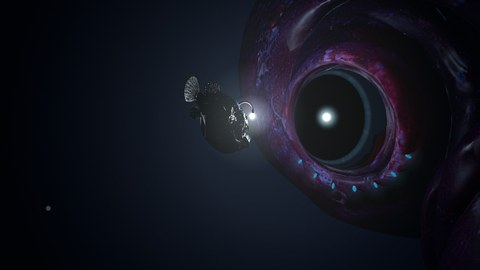
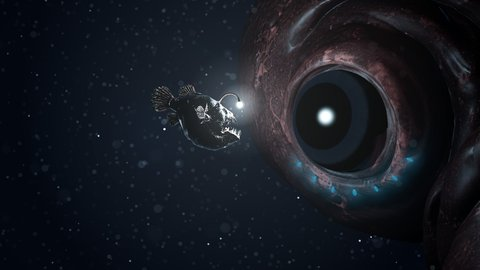
abyss-eye: push toward the target (Fable review 2)
Marine snow with near bokeh, a darker eye with a visible iris and no grey
crescent, desaturated ochre skin with a 0.4 roughness floor, photophores that
are embers in the dark and bleed cyan into the flesh, a steeper lure falloff,
darker water with a blue wash behind the fish, a farther approach with no rim
for the first 12 s, and a non-metallic anglerfish. About 5-6 ms per frame.

diff --git a/themes/abyss-eye/index.html b/themes/abyss-eye/index.html
@@ -64,10 +64,10 @@ const CONFIG = {
   eyeDist: 1.15,                                  // camera → eye, metres (eye ≈ 37 % of the screen height)
   yaw: -0.6, pitch: 0.1, roll: 0.1,              // the head turned so the eye looks at the camera, the skull off right
   eyeFwd: [0.105, -0.017, 0.994],                 // the socket's axis in the eyeball's own space (from the Blender fit)
-  away: new THREE.Vector3(0.35, -0.1, -1.6),      // how far it drifts back out (added to the stage point)
+  away: new THREE.Vector3(0.35, -0.1, -2.6),      // how far it drifts back out (added to the stage point)
   armAmp: 1,                                      // multiplier on the arm curl (0 = rest pose)
   fishOrbit: new THREE.Vector3(-0.34, -0.03, 0.2),// centre of the fish's small loop, relative to the eye
-  fishScale: 0.9, exposure: 0.7, fog: 0.4, bg: 0x040a16,
+  fishScale: 0.9, exposure: 0.7, fog: 0.4, bg: 0x02060e,
   timeOverride: QS.has('t') ? +QS.get('t') : null,   // seconds into the cycle (?t=55), for screenshots / demo.html
 };
 const DEBOUNCE_MS = 300, POLL_MS = 1000;
@@ -148,9 +148,10 @@ scene.add(ambient);
 const rim = new THREE.DirectionalLight(0x4f86c6, 0.35);
 rim.position.set(1.5, 1.2, -2.5);
 scene.add(rim);
-// The lure light falls off slower than physics (decay 1.3) and a cold fill rides along with an even flatter falloff:
+// The lure light falls off a bit slower than physics (decay 1.7) and a cold fill rides along with a much flatter falloff:
 // in the concept art the lure washes the whole face in blue-white, which is wrong optically but right for the mood.
-const lureLight = new THREE.PointLight(0xcff4ff, 0, 0, 1.3);
+// 1.7 rather than 1.3 so the far side of the skull sinks back into the dark (depth), with more intensity to compensate.
+const lureLight = new THREE.PointLight(0xcff4ff, 0, 0, 1.7);
 const lureFill = new THREE.PointLight(0x7fa6e8, 0, 0, 0.6);
 // The fish stays as visible as in the concept art whatever Claude is doing: a small lamp of its own, constant, that
 // dies out within 0.3 m so it never reaches the squid (only the squid's reveal follows the state).
@@ -169,55 +170,64 @@ const photoGlow = Array.from({ length: 14 }, () => {
     blending: THREE.AdditiveBlending, fog: false, opacity: 0 }));
   sp.scale.setScalar(0.07); scene.add(sp); return sp;
 });
+// the water around the fish is faintly lit: a huge, very faint blue sprite behind it washes the left half of the frame
+const wash = new THREE.Sprite(new THREE.SpriteMaterial({ map: glowTex, color: 0x3d78c8, transparent: true, depthWrite: false,
+  blending: THREE.AdditiveBlending, fog: false, opacity: 0.05 }));
+wash.scale.setScalar(1.5); scene.add(wash);
 const halo = [0.06, 0.6].map(size => {
   const sp = new THREE.Sprite(new THREE.SpriteMaterial({ map: glowTex, color: 0xcff4ff, transparent: true, depthWrite: false,
     depthTest: size < 0.1, blending: THREE.AdditiveBlending, fog: false }));
   sp.userData.size = size; scene.add(sp); return sp;
 });
 
-/* ------------------------------ marine snow ------------------------------ */
-const SNOW_N = 2600, SNOW_BOX = [9, 6, 10];
-const snowGeo = new THREE.BufferGeometry();
-{
-  const p = new Float32Array(SNOW_N * 3), s = new Float32Array(SNOW_N);
-  for (let i = 0; i < SNOW_N; i++) {
-    p[i * 3] = (Math.random() - 0.5) * SNOW_BOX[0]; p[i * 3 + 1] = (Math.random() - 0.5) * SNOW_BOX[1];
-    p[i * 3 + 2] = -0.6 - Math.random() * SNOW_BOX[2]; s[i] = Math.random();
+/* ------------------------------ marine snow ------------------------------
+ * Two clouds, one shader: the far field (2,600 flakes through 10 m of water) and ~400 near flakes floating between
+ * the camera and the eye (z −0.3 … −1.5). The near ones are well out of focus, so they read as big soft bokeh discs. */
+function makeSnow(n, box, z0, big, gain) {
+  const geo = new THREE.BufferGeometry();
+  const p = new Float32Array(n * 3), s = new Float32Array(n);
+  for (let i = 0; i < n; i++) {
+    p[i * 3] = (Math.random() - 0.5) * box[0]; p[i * 3 + 1] = (Math.random() - 0.5) * box[1];
+    p[i * 3 + 2] = z0 - Math.random() * box[2]; s[i] = Math.random();
   }
-  snowGeo.setAttribute('position', new THREE.BufferAttribute(p, 3));
-  snowGeo.setAttribute('seed', new THREE.BufferAttribute(s, 1));
+  geo.setAttribute('position', new THREE.BufferAttribute(p, 3));
+  geo.setAttribute('seed', new THREE.BufferAttribute(s, 1));
+  const mat = new THREE.ShaderMaterial({
+    transparent: true, depthWrite: false, blending: THREE.AdditiveBlending,
+    uniforms: { uTime: { value: 0 }, uLure: { value: new THREE.Vector3() }, uLight: { value: 0 }, uBase: { value: 0.5 },
+                uPx: { value: 1 }, uFocus: { value: CONFIG.eyeDist }, uBox: { value: new THREE.Vector3(...box) }, uBig: { value: big }, uGain: { value: gain } },
+    vertexShader: /* glsl */`
+      attribute float seed; uniform float uTime, uPx, uFocus, uBig; uniform vec3 uBox, uLure; varying float vA, vLit, vSoft;
+      void main() {
+        vec3 p = position;
+        p.y = mod(p.y - uTime * (0.015 + 0.02 * seed) + uBox.y * 0.5, uBox.y) - uBox.y * 0.5;      // slow fall, wraps
+        p.x += sin(uTime * 0.11 + seed * 40.0) * 0.15 * min(1.0, uBox.x / 4.0);                    // a little drift
+        vec4 mv = modelViewMatrix * vec4(p, 1.0);
+        gl_Position = projectionMatrix * mv;
+        float d = length(p - uLure);
+        vLit = 1.0 / (1.0 + d * d * 6.0);
+        vA = 0.35 + 0.65 * seed;
+        float dz = -mv.z - uFocus, blur = dz > 0.0 ? dz * 0.12 : -dz;      // out of focus → a bigger, fainter disc (far side kept crisper: mood over optics)
+        gl_PointSize = min(96.0, uPx * uBig * ((1.2 + 2.2 * seed) * 3.0 / max(0.3, -mv.z) + blur * 9.0));
+        vA /= 1.0 + blur * blur * 1.5;
+        vSoft = clamp(-dz * 1.5 - 0.3, 0.0, 1.0);                          // bokeh in front of the eye: soft-edged, flatter
+      }`,
+    fragmentShader: /* glsl */`
+      uniform float uLight, uBase, uGain; varying float vA, vLit, vSoft;
+      void main() {
+        vec2 c = gl_PointCoord - 0.5; float r = dot(c, c);
+        if (r > 0.25) discard;
+        float shape = mix(smoothstep(0.25, 0.12, r), smoothstep(0.25, 0.02, r) * 0.6, vSoft);
+        float a = shape * vA * uGain * (0.4 * uBase + min(0.6, vLit * uLight * 0.9));
+        gl_FragColor = vec4(vec3(0.75, 0.9, 1.0) * a, a);
+      }`,
+  });
+  const pts = new THREE.Points(geo, mat);
+  pts.frustumCulled = false;
+  scene.add(pts);
+  return mat;
 }
-const snowMat = new THREE.ShaderMaterial({
-  transparent: true, depthWrite: false, blending: THREE.AdditiveBlending,
-  uniforms: { uTime: { value: 0 }, uLure: { value: new THREE.Vector3() }, uLight: { value: 0 }, uBase: { value: 0.5 },
-              uPx: { value: 1 }, uFocus: { value: CONFIG.eyeDist }, uBox: { value: new THREE.Vector3(...SNOW_BOX) } },
-  vertexShader: /* glsl */`
-    attribute float seed; uniform float uTime, uPx, uFocus; uniform vec3 uBox, uLure; varying float vA; varying float vLit;
-    void main() {
-      vec3 p = position;
-      p.y = mod(p.y - uTime * (0.015 + 0.02 * seed) + uBox.y * 0.5, uBox.y) - uBox.y * 0.5;      // slow fall, wraps
-      p.x += sin(uTime * 0.11 + seed * 40.0) * 0.15;                                              // a little drift
-      vec4 mv = modelViewMatrix * vec4(p, 1.0);
-      gl_Position = projectionMatrix * mv;
-      float d = length(p - uLure);
-      vLit = 1.0 / (1.0 + d * d * 6.0);
-      vA = 0.35 + 0.65 * seed;
-      float blur = abs(-mv.z - uFocus);                                   // out of focus → a bigger, fainter disc
-      gl_PointSize = uPx * ((1.2 + 2.2 * seed) * 3.0 / max(0.4, -mv.z) + blur * 9.0);
-      vA /= 1.0 + blur * blur * 10.0;
-    }`,
-  fragmentShader: /* glsl */`
-    uniform float uLight, uBase; varying float vA; varying float vLit;
-    void main() {
-      vec2 c = gl_PointCoord - 0.5; float r = dot(c, c);
-      if (r > 0.25) discard;
-      float a = smoothstep(0.25, 0.12, r) * vA * (0.13 * uBase + vLit * uLight * 0.9);
-      gl_FragColor = vec4(vec3(0.75, 0.9, 1.0) * a, a);
-    }`,
-});
-const snow = new THREE.Points(snowGeo, snowMat);
-snow.frustumCulled = false;
-scene.add(snow);
+const snowMats = [makeSnow(2600, [9, 6, 10], -0.6, 1.0, 1.5), makeSnow(400, [1.5, 0.85, 1.2], -0.3, 1.6, 0.35)];
 
 /* ------------------------------ the eye ------------------------------
  * The eyeball is a plain sphere; all the depth is faked in its fragment shader (no extra render pass):
@@ -244,6 +254,7 @@ function eyeMaterial() {
         vec3 toL = uLure - vP; float dL = length(toL); vec3 l = toL / dL;
         float dW = dL * uWS; float lit = uLight / (dW * dW);          // the lure's irradiance here (inverse square, metres)
         // inside: refract, hit the iris plane (sunk 0.35 R below the cornea's apex)
+        float axial = smoothstep(0.25, 0.6, dot(n, uFwd));
         vec3 rr = refract(rd, n, 1.0 / 1.38);
         float depth = 0.62 * uR;
         float s = (depth - dot(vP, uFwd)) / min(dot(rr, uFwd), -1e-3);
@@ -251,15 +262,20 @@ function eyeMaterial() {
         vec3 qp = q - uFwd * dot(q, uFwd);                            // position on the iris plane
         float rho = length(qp) / uR, ang = atan(qp.y, qp.x + 1e-5);
         float striae = 0.55 + 0.45 * noise1(ang * 28.0 + rho * 6.0) * noise1(ang * 9.0 - rho * 3.0);
-        vec3 iris = mix(vec3(0.10, 0.16, 0.22), vec3(0.42, 0.50, 0.55), smoothstep(uPupil, 0.95, rho)) * striae;
+        vec3 iris = mix(vec3(0.008, 0.009, 0.011), vec3(0.03, 0.026, 0.024), smoothstep(uPupil, 0.95, rho)) * striae;   // dark, warm grey
         iris *= smoothstep(0.98, 0.85, rho);                          // dark limbal ring
         float pupil = smoothstep(uPupil + 0.02, uPupil - 0.02, rho);
-        vec3 inside = mix(iris, vec3(0.0), pupil) * (0.012 + lit * 0.035) * uLureCol;
-        inside += vec3(0.010, 0.016, 0.026) * (1.0 - pupil);         // a hint of the iris even unlit
+        vec3 inside = mix(iris, vec3(0.0), pupil) * (0.036 + lit * 0.105) * uLureCol;   // iris ×3: it has to read as a ring
+        inside += vec3(0.010, 0.016, 0.026) * (1.0 - pupil) * smoothstep(1.0, 0.85, rho);   // a hint of the iris even unlit
+        inside *= axial;                                              // nothing of the iris outside the socket
         // the cornea: fresnel reflection of the dark water, plus the lure as a sharp highlight
         vec3 v = -rd, h = normalize(l + v);
         float fres = 0.04 + 0.96 * pow(1.0 - max(dot(n, v), 0.0), 5.0);
-        float spec = pow(max(dot(n, h), 0.0), 900.0) * 6.0 + pow(max(dot(n, h), 0.0), 80.0) * 0.08;
+        // the ball pokes out of the socket on the far side; its grazing fresnel drew a grey crescent there, so the
+        // reflection fades out away from the socket's axis
+        fres *= axial;
+        // a sharp catchlight plus a broad soft sheen across the wet cornea
+        float spec = pow(max(dot(n, h), 0.0), 900.0) * 6.0 + pow(max(dot(n, h), 0.0), 160.0) * 0.5 * axial;
         vec3 col = inside * (1.0 - fres) + vec3(0.012, 0.022, 0.04) * fres + uLureCol * spec * (0.2 + lit * 0.8);
         gl_FragColor = vec4(col, 1.0);
         #include <tonemapping_fragment>
@@ -274,7 +290,8 @@ function eyeMaterial() {
  * distance from the eye centre in the camera plane — the camera never rotates, so world xy = view xy), and a red
  * glow of light passing under the skin near the lure (fake subsurface). Front faces only (Tripo exports double-sided).
  * All of it is lit only by the lure, so it comes out of the dark as the lure brightens. */
-const skinU = { uEye: { value: new THREE.Vector3() }, uEyeR: { value: 0.115 }, uLure: { value: new THREE.Vector3() }, uL: { value: 0 } };
+const skinU = { uEye: { value: new THREE.Vector3() }, uEyeR: { value: 0.115 }, uLure: { value: new THREE.Vector3() }, uL: { value: 0 },
+                uPh: { value: Array.from({ length: 7 }, () => new THREE.Vector3(0, 0, 99)) }, uPhK: { value: 0 } };
 const NOISE_GLSL = /* glsl */`
   float h3(vec3 p) { return fract(sin(dot(p, vec3(127.1, 311.7, 74.7))) * 43758.5453); }
   float n3(vec3 p) { vec3 i = floor(p), f = fract(p); f = f * f * (3.0 - 2.0 * f);
@@ -291,16 +308,18 @@ function skinMaterial(mat) {
       .replace('#include <skinning_vertex>', '#include <skinning_vertex>\nvWPos = (modelMatrix * vec4(transformed, 1.0)).xyz;');
     sh.fragmentShader = sh.fragmentShader
       .replace('#include <common>', `#include <common>
-        varying vec3 vWPos; uniform vec3 uEye, uLure; uniform float uEyeR, uL;
+        varying vec3 vWPos; uniform vec3 uEye, uLure, uPh[7]; uniform float uEyeR, uL, uPhK;
         ${NOISE_GLSL}
 `)
       .replace('#include <map_fragment>', `#include <map_fragment>
         // the Tripo head carries its own sculpted folds and scars; only a cheap tint, mottling and fold sheen are added
         vec2 rel = (vWPos.xy - uEye.xy) / uEyeR; float dEye = length(rel);
         float mott = n3(vWPos * 9.0);
-        diffuseColor.rgb *= vec3(1.0, 0.78, 0.82) * (0.8 + 0.4 * mott);                       // nudge the purple toward oxblood`)
+        float lum = dot(diffuseColor.rgb, vec3(0.299, 0.587, 0.114));
+        // Tripo's texture is magenta: drop its hue, re-tint to dark ochre-red, let the pale blotches stay greyish-pale
+        diffuseColor.rgb = mix(lum * vec3(0.55, 0.22, 0.2) * 3.2, vec3(lum * 0.8), smoothstep(0.4, 0.7, lum) * 0.6) * (0.8 + 0.4 * mott);`)
       .replace('#include <roughnessmap_fragment>', `#include <roughnessmap_fragment>
-        roughnessFactor = clamp(roughnessFactor * (0.6 + 0.8 * mott), 0.12, 1.0);`)
+        roughnessFactor = clamp(roughnessFactor * (0.6 + 0.8 * mott), 0.4, 1.0);   // ≥ 0.4: no blue plastic sheen on the skull`)
       .replace('#include <normal_fragment_maps>', `#include <normal_fragment_maps>
         {
           float k = 7.0, band = smoothstep(1.02, 1.25, dEye) * smoothstep(3.6, 1.7, dEye);
@@ -309,7 +328,11 @@ function skinMaterial(mat) {
           normal = normalize(normal + vec3(dir * slope, 0.0));
         }`)
       .replace('#include <emissivemap_fragment>', `#include <emissivemap_fragment>
-        { float d = length(vWPos - uLure); totalEmissiveRadiance += diffuseColor.rgb * vec3(1.0, 0.25, 0.2) * uL / (d * d) * 0.05; }`);
+        { float d = length(vWPos - uLure); totalEmissiveRadiance += diffuseColor.rgb * vec3(1.0, 0.25, 0.2) * uL / (d * d) * 0.05; }
+        // the photophores glow from inside the flesh: a cyan Σ1/d² bleed around each, so they grow out of the skin
+        { float g = 0.0;
+          for (int i = 0; i < 7; i++) { vec3 e = vWPos - uPh[i]; g += 1.0 / (1.0 + dot(e, e) * 2500.0); }
+          totalEmissiveRadiance += vec3(0.03, 0.32, 0.45) * g * uPhK; }`);
   };
   mat.needsUpdate = true;
 }
@@ -322,7 +345,7 @@ function initEyes(m) {
     node.material.uniforms.uFwd.value.copy(fwd);
     node.material.uniforms.uR.value = node.geometry.boundingSphere.radius;
     node.material.uniforms.uWS.value = node.getWorldScale(new THREE.Vector3()).x;
-    eyes.push({ node, mat: node.material, fwd, rest: node.quaternion.clone(), sacc: new THREE.Quaternion(), saccTo: new THREE.Quaternion(), nextSacc: 2, pupil: 0.78 });
+    eyes.push({ node, mat: node.material, fwd, rest: node.quaternion.clone(), sacc: new THREE.Quaternion(), saccTo: new THREE.Quaternion(), nextSacc: 2, pupil: 0.6 });
   }
 }
 const GAZE = { maxDeg: 25, lag: 0.35, saccEvery: [2, 5], saccDeg: 1.6, saccTime: 0.08, driftDeg: 0.3 };
@@ -352,7 +375,7 @@ function lookAtLure(dt, t, L) {
     target.multiply(e.sacc).multiply(drift);
     e.node.quaternion.slerp(target, 1 - Math.exp(-dt / (GAZE.lag / (1 + L * 2))));   // brighter → keener
     // pupil follows the light, slowly
-    e.pupil += (THREE.MathUtils.lerp(0.88, 0.8, THREE.MathUtils.smoothstep(L, 0, 0.4)) - e.pupil) * (1 - Math.exp(-dt / 1.5));
+    e.pupil += (THREE.MathUtils.lerp(0.65, 0.55, THREE.MathUtils.smoothstep(L, 0, 0.4)) - e.pupil) * (1 - Math.exp(-dt / 1.5));
     const u = e.mat.uniforms;
     u.uPupil.value = e.pupil; u.uLight.value = L;
     e.node.updateMatrixWorld();
@@ -419,7 +442,11 @@ loader.load('assets/anglerfish.glb', g => {
   fish.esca = fish.parts.esca;
   fish.escaMat = fish.esca.material;
   fish.esca.add(lureLight, lureFill, fishLamp);
-  m.traverse(o => { if (o.isMesh && o.material.isMeshStandardMaterial && o !== fish.esca) fishRim(o.material); });
+  m.traverse(o => {
+    if (!o.isMesh || !o.material.isMeshStandardMaterial || o === fish.esca) return;
+    o.material.metalness = 0; o.material.roughness = Math.max(o.material.roughness, 0.7);   // it read as metal
+    fishRim(o.material);
+  });
   keep(fish.parts.illicium);
   fish.ready = true;
 }, undefined, e => console.warn('anglerfish not loaded:', e));
@@ -469,10 +496,14 @@ function animate(dt) {
     if (squid.head) wiggle(squid.head, 0, Math.sin(t * 2 * Math.PI / 40) * 0.02 * appear, 0);
     // photophores wake up as it arrives; a slow shimmer, brighter when the lure is brighter
     const ph = (0.05 + 0.95 * ss(14, 30, T) * (1 - ss(74, 86, T))) * (0.75 + 0.25 * Math.sin(t * 1.7));
-    if (squid.photo) squid.photo.emissiveIntensity = ph * 1.4;
+    // ...but in the dark they are only embers: they must not outshine the lure (Fable: "jewels floating on the skin")
+    const ember = 0.15 + 0.85 * Math.min(1, L / 0.2);
+    if (squid.photo) squid.photo.emissiveIntensity = ph * 1.4 * ember;
+    skinU.uPhK.value = ph * ember * 0.35;
     squid.photoNodes?.forEach((o, i) => {                              // each photophore gets a small soft glow
       const sp = photoGlow[i]; o.getWorldPosition(sp.position);
-      sp.material.opacity = ph * (0.55 + 0.15 * Math.sin(t * 2.3 + i));
+      if (i < 7) skinU.uPh.value[i].copy(sp.position);
+      sp.material.opacity = ph * ember * (0.55 + 0.15 * Math.sin(t * 2.3 + i));
     });
     squid.root.updateMatrixWorld(true);
     squid.eyeNode.getWorldPosition(squid.eye);
@@ -496,11 +527,14 @@ function animate(dt) {
     if (p.illicium) wiggle(p.illicium, Math.sin(t * 1.3) * 0.08, Math.sin(t * 0.9) * 0.05, 0);
     if (fish.jaw) wiggle(fish.jaw, (0.5 + 0.5 * Math.sin(t * 0.45)) * 0.22, 0, 0);
     // the lure: glow + the scene's only light
-    lureLight.intensity = L * 1.3;
+    lureLight.intensity = L * 1.6;
     lureFill.intensity = L * 0.9;
     fish.escaMat.emissiveIntensity = 2.0 + 1.5 * Math.min(1, L / 0.25) + 0.15 * Math.sin(t * 2.9);   // never dim: it is the fish's own light
     fish.esca.getWorldPosition(lurePos);
+    wash.position.copy(c).add(tmp.set(-0.15, 0, -0.4));
   }
+  // the cold rim only comes up once it starts to approach: the first 12 s are truly dark
+  rim.intensity = 0.35 * ss(12, 24, T) * (1 - ss(80, 89, T));
   if (squid.ready && fish.ready) lookAtLure(dt, t, L);
   skinU.uEye.value.copy(squid.eye); skinU.uLure.value.copy(lurePos); skinU.uL.value = L;
   const hk = Math.min(1, L / 0.4);
@@ -509,10 +543,12 @@ function animate(dt) {
     sp.scale.setScalar(sp.userData.size * (0.55 + 0.8 * hk));
     sp.material.opacity = sp.userData.size < 0.1 ? 0.75 + 0.25 * hk : 0.14 + 0.24 * hk;
   }
-  snowMat.uniforms.uTime.value = t;
-  snowMat.uniforms.uLure.value.copy(lurePos);
-  snowMat.uniforms.uLight.value = L * 8;           // snow brightness was tuned for the old 0–3.2 range
-  snowMat.uniforms.uBase.value = current.snow;
+  for (const m of snowMats) {
+    m.uniforms.uTime.value = t;
+    m.uniforms.uLure.value.copy(lurePos);
+    m.uniforms.uLight.value = L * 8;               // snow brightness was tuned for the old 0–3.2 range
+    m.uniforms.uBase.value = current.snow;
+  }
   return { T, appear };
 }
 
@@ -527,7 +563,7 @@ function resize() {
   renderer.setSize(innerWidth, innerHeight, false);
   camera.aspect = innerWidth / innerHeight; camera.updateProjectionMatrix();
   place();                                        // the stage point depends on the aspect ratio
-  snowMat.uniforms.uPx.value = innerHeight * dpr * s / 600;
+  for (const m of snowMats) m.uniforms.uPx.value = innerHeight * dpr * s / 600;
 }
 addEventListener('resize', resize);
 function render(dt) {

diff --git a/themes/abyss-eye/README.md b/themes/abyss-eye/README.md
@@ -6,13 +6,14 @@
 - 2026-10-25 第一版（全身側拍）。
 - 同日依 Fable 審稿重做成「遭遇」構圖：只拍眼睛與眼周，巨物看不到邊才顯得大。
 - 同日再把整隻魷魚換成專用頭模 `abyss_head.glb`：從目標圖裁出眼區丟 Tripo（H3.1 → 重拓撲 2 萬三角 → 去光貼圖），眼窩肉環與疤痕是真的雕在模型和貼圖裡；Blender 腳本加上給 shader 用的眼球和 7 顆發光器（`E:	mp\colossal-squid\socketuild_head.py`）。
+- 同日照 Fable 覆評（62/100）再推近目標圖：海雪與散景、眼睛（瞳孔變小、虹膜與角膜反光、去掉灰月牙）、皮膚改暗赭、發光器沉進肉裡、深度梯度與左側霧洗、開場逼近更遠。
 - 設計稿與規格在 `docs/素材庫/colossal-squid/DESIGN.md`、`SPECS.md`（素材庫不進 git，在作者本機）；目標圖在 `E:\tmp\colossal-squid\angler\target.png`。
 
 ## 狀態對照（只改餌燈亮度與海雪）
 
 | 狀態 | 餌燈（燭光） | 畫面 |
 |---|---|---|
-| 沒有對話（`sessions` 全空） | 0.006 | 幾乎全黑：剪影、外套膜一道藍輪廓、眼球一點反光、眼下發光器 |
+| 沒有對話（`sessions` 全空） | 0.006 | 幾乎全黑：剪影、外套膜一道藍輪廓、眼球一點反光、眼下發光器只剩餘燼 |
 | `clear` / `clearing` | 0.07 | 眼周皮膚微亮、虹膜環隱約可見 |
 | `overcast` | 0.16 | 皺褶與斑駁浮現 |
 | `storm` | 0.20 | 同上，再亮一點 |
@@ -26,15 +27,16 @@
 
 | 秒 | 內容 |
 |---|---|
-| 0–12 | 黑暗，牠在遠處（`CONFIG.away`） |
+| 0–12 | 黑暗，牠在遠處（`CONFIG.away`，比定位點遠 2.6 m），連輪廓光都沒有 |
 | 12–48 | 很慢地逼近到定位 |
+| 12–24 | 輪廓光慢慢出現（80–89 秒再收掉） |
 | 14–30 | 眼下發光器亮起 |
 | 48–74 | 停住：外套膜每 12 秒呼吸一次（縮放 2%），頭 40 秒才轉一點，腕幾乎不動 |
 | 74–89 | 沉回黑暗 |
 
 安康魚在眼睛左前方畫一個很小的圈（46 秒一圈，`CONFIG.fishOrbit`），身體大多朝著巨眼。牠以鏡頭前的定位點為中心，**一開場就在**，等巨眼從黑暗浮現。
 
-**安康魚的可見度不跟狀態走**（照概念圖）：自己有一盞固定亮度、0.3 m 內就熄的小燈（照不到巨獸），材質加冷藍色的邊緣光，餌球和核心光暈有最低亮度。只有巨獸的浮現跟著光量。
+**安康魚的可見度不跟狀態走**（照概念圖）：自己有一盞固定亮度、0.3 m 內就熄的小燈（照不到巨獸），材質加冷藍色的邊緣光（金屬度 0、粗糙度至少 0.7，不再像金屬），餌球和核心光暈有最低亮度。只有巨獸的浮現跟著光量。
 
 ## 鏡頭與構圖（`CONFIG`）
 
@@ -51,14 +53,19 @@
   - 平滑追蹤，約慢 0.35 秒；燈越亮反應越快
   - 每 2–5 秒快速跳視一次，偏 1–2°
   - 停住時有 0.3° 的微漂移
-- **瞳孔**：隨光量縮放（0.80 → 0.64 倍眼半徑），變化有 1.5 秒延遲。
+- **瞳孔**：隨光量縮放（0.65 → 0.55 倍眼半徑），變化有 1.5 秒延遲；瞳孔小一點才看得到虹膜環。
+- **虹膜**：暗暖灰，受光量×3 倍（sRGB 會把暗部拉亮很多，所以底色要壓得很低）。
+- **角膜**：銳利高光之外再加一片寬的柔反光（0.5）。
+- **眼窩外不畫**：眼球有一部分露在眼窩外，掠射 fresnel 會畫出一圈灰月牙；反光與虹膜都依「離眼窩軸多遠」用 smoothstep 淡掉。
 
 ## 皮膚（`skinMaterial()`，注入 Tripo 的標準材質）
 
 頭模本身已有雕出的眼窩肉環與疤痕貼圖，shader 只補便宜的東西（下列疤痕與毛孔已拿掉）；材質改成單面（Tripo 導出是雙面，背面會多一整層全螢幕成本）。
 
 
-- 底色壓成暗赭紅，加世界座標噪聲做的斑駁和淡色小點。
+- 底色：Tripo 貼圖是洋紅色，先去飽和，再乘暗赭 (0.55, 0.22, 0.2)；亮的斑塊保留一點灰白（像目標圖的淡斑）。
+- 粗糙度下限 0.4：太低時頭顱右上會有大片藍色塑膠高光。
+- 發光器長在肉裡：7 顆發光器位置傳進皮膚 shader，周圍做 Σ1/d² 的青色暈染。
 - 眼周同心皺褶：依「到眼心距離」做放射狀正弦，擾動法線。
 - 三個圓形舊疤（抹香鯨的吸盤痕）。
 - 粗糙度斑駁、細毛孔法線。
@@ -67,12 +74,13 @@
 
 ## 光與空氣
 
-- 餌球上掛一盞 `PointLight`（衰減 1.3，比物理慢）＋一盞冷藍補光（衰減 0.6）：概念圖裡燈把整張臉洗成藍白，光學上不對但氣氛對，**這是氛圍桌布，氣氛優先**。
-- 眼下發光器縮小成深青色，每顆帶一張小光暈 sprite。
+- 餌球上掛一盞 `PointLight`（衰減 1.7，比物理略慢；比原本的 1.3 陡，頭顱遠端才會沉進黑暗、有深度）＋一盞冷藍補光（衰減 0.6）：概念圖裡燈把整張臉洗成藍白，光學上不對但氣氛對，**這是氛圍桌布，氣氛優先**。
+- 眼下發光器縮小成深青色，每顆帶一張小光暈 sprite。亮度乘 `0.15 + 0.85·min(1, 光量/0.2)`：最暗時只是餘燼，不搶餌燈。
 - 右後方一盞極弱的冷藍 `DirectionalLight` 做輪廓光，再加極弱的半球光。
-- ACES 色調、exposure 0.7、背景與指數霧都是 `#040a16`。
+- ACES 色調、exposure 0.7、背景與指數霧都是 `#02060e`。
+- **左側霧洗**：魚後方一張 1.5 m、透明度 0.05 的藍色大 sprite，讓魚周圍的水微微發亮。
 - **光暈**：餌燈上疊兩張加法 sprite，一張小而亮的核心、一張大而柔的霧中散射，大小與透明度跟著光量變。
-- **海雪**：2,600 顆點。離對焦面（眼睛距離）越遠，畫成越大越淡的散景圓片；離餌燈越近越亮。
+- **海雪**：兩團點，同一個 shader。遠處 2,600 顆細點：對焦面後方幾乎不糊（氣氛優先，目標圖整片都是細雪點）；鏡頭與眼睛之間（z −0.3～−1.5）400 顆大的散景雪：離焦越多越大、越淡、邊緣越柔。離餌燈越近越亮（有上限，不會變成白色圓盤）。
 - **底片顆粒**：CSS 疊層，一張程式產生的噪聲圖，用 `steps()` 位移。
 
 ## 技術
@@ -80,7 +88,7 @@
 - three.js r170，放在 `vendor/`（MIT，`vendor/LICENSE-three.txt`）。
 - 模型：`assets/abyss_head.glb`（魷魚頭，約 1.1 m、18,941 三角、2k 貼圖；`eye_L` 眼球、`photophore_L_01..07`）、`assets/anglerfish.glb`（0.185 m）。都是 Tripo 專業版產出再經 Blender 腳本處理。整隻魷魚 `colossal_squid.glb` 已從主題移除（留在素材庫）。
 - 30 fps 上限、像素預算 1920×1080 的一半。
-- 實測每格約 11.2 ms（1357×763，內建瀏覽器，含 GPU 同步）；第一版約 5.5 ms。
+- 實測每格約 5–6 ms（1357×763，內建瀏覽器，`theme.frame()` 連跑 30 格、前後 `readPixels` 同步）。
 - 測試網址參數：`?t=55` 固定在演出第 55 秒、`?state=waiting` 固定狀態（不讀 state.json）。
 - `window.theme`：`requestState`、`applyState`、`setTime(秒|null)`、`setSessions([...])`、`frame()`、`place()`、`CONFIG`、`squid`、`fish`、`renderer`。
 
